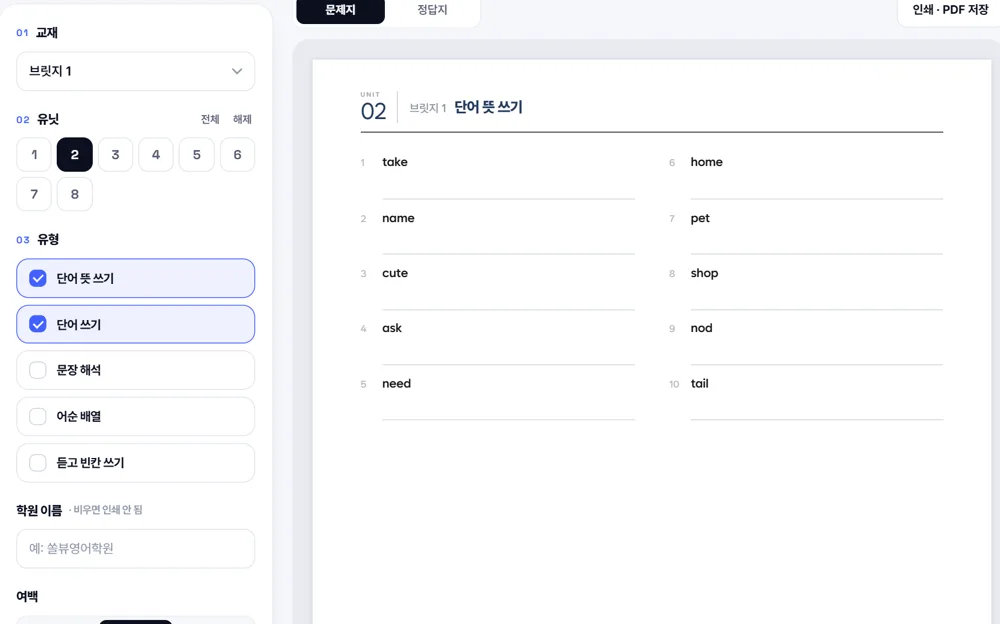
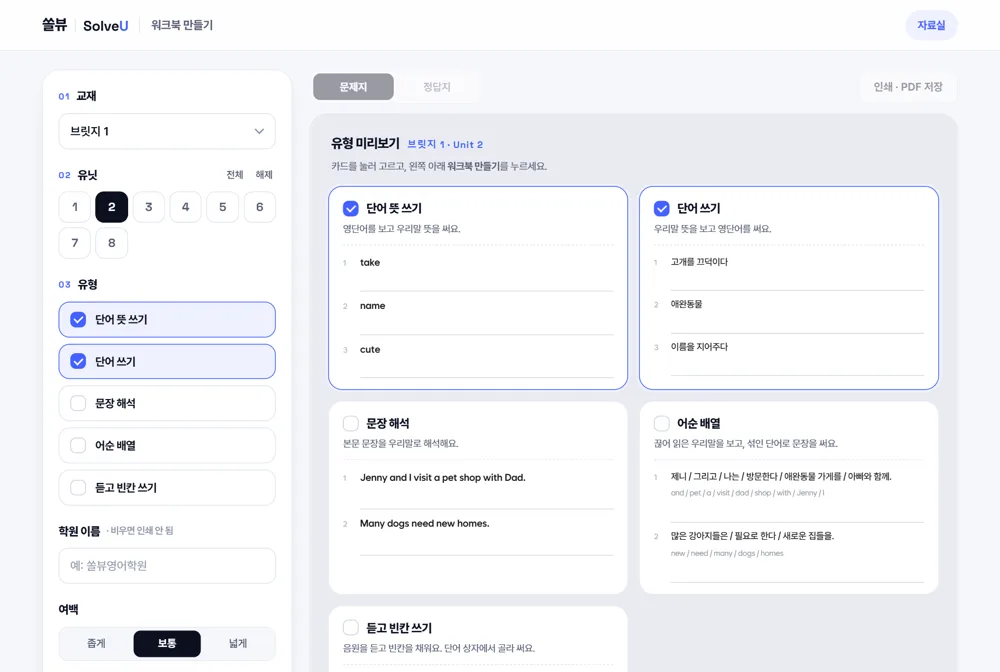
학원 도입: '저자 직강 영상' 칸, 수업 도구 = 새 워크북 만들기 화면 + 저자 강의 영상(정답 PDF 제외) / 워크북 만들기 첫모의고사 포함, 유형 5가지 문구

diff --git a/library/index.html b/library/index.html
@@ -192,7 +192,7 @@
       <p class="lead t-post">필요한 도구를 바로 여세요. 교재별 자료는 아래 카드에서 받을 수 있어요.</p>
       <div class="tg4">
         <div class="tf"><div class="art"><div class="sheet b2"><i class="h"></i><i></i><i class="s"></i><i></i></div><div class="sheet b3"><i class="h"></i><i></i><i class="s"></i><i></i></div><div class="sheet"><i class="h"></i><i></i><i class="s"></i><i></i><i></i><i class="s"></i></div><span class="chk"><svg viewBox="0 0 24 24" aria-hidden="true"><path fill="none" stroke="currentColor" stroke-width="3" stroke-linecap="round" stroke-linejoin="round" d="M5 12l5 5 9-10"/></svg></span></div>
-          <b>1분 만에 워크북</b><span>유닛만 고르면 단어·문장·어순 워크북과 정답지가 바로 나와요</span><a class="go tbtn" data-href="/교사포털/시험지생성기/">열기 →</a></div>
+          <b>1분 만에 워크북</b><span>유닛만 고르면 단어·문장·어순·듣고 빈칸 쓰기 워크북이 정답지와 함께 나와요</span><a class="go tbtn" data-href="/교사포털/시험지생성기/">열기 →</a></div>
         <div class="tf"><div class="art"><div class="sheet l"><i class="h"></i><i></i><i></i><i class="s"></i></div><div class="sheet r"><i class="h"></i><i class="s"></i><i></i><i></i></div><span class="tag" style="left:12px;bottom:10px">단어 리스트</span><span class="tag" style="right:12px;top:10px">워크북</span></div>
           <b>인쇄만 하면 되는 수업 자료</b><span>수업에 바로 쓰는 여러 유형의 워크북 완성본</span><a class="go" href="#books">교재별로 받기 ↓</a></div>
         <div class="tf"><div class="art"><div class="scr"><i class="h"></i><i></i><i style="width:70%"></i><i></i><span class="hl"></span><span class="cir"></span></div><span class="stand"></span></div>
@@ -220,7 +220,7 @@
       <div class="tch"><span class="lab"><i class="lk"><svg viewBox="0 0 24 24" aria-hidden="true"><rect x="5" y="11" width="14" height="10" rx="2.5" fill="currentColor"/><path d="M8 11V8a4 4 0 0 1 8 0v3" fill="none" stroke="currentColor" stroke-width="2.2"/></svg></i>선생님</span><a class="tbtn" data-href="https://southern-winter-c87.notion.site/15a3cdde2d7e80ddb3e0efd45c6f9fac" target="_blank" rel="noopener">바로 쓰는 자료</a><a class="tbtn" data-href="/교사포털/시험지생성기/?book=rbr1">워크북 만들기</a><a class="tbtn" data-href="/교사포털/이북/rbr1/">E-Book 1권</a><a class="tbtn" data-href="/교사포털/이북/rbr2/">E-Book 2권</a></div></div><div class="ag rev"><div class="hd"><div class="cv"><img src="/assets/covers/rin1.webp" alt="저절로 입문 1 표지" loading="lazy"><img src="/assets/covers/rin2.webp" alt="저절로 입문 2 표지" loading="lazy"></div><div class="tx"><h3>입문 <span class="chip gray">초4~5</span></h3><div class="vl"><b>1권</b><a class="pill a" href="/books/answers/rin1.pdf" target="_blank" rel="noopener" aria-label="저절로 입문 1 정답 PDF"><svg viewBox="0 0 24 24" aria-hidden="true"><path fill="none" stroke="currentColor" stroke-width="2.4" stroke-linecap="round" stroke-linejoin="round" d="M12 4v11m0 0-4.5-4.5M12 15l4.5-4.5M5 20h14"/></svg>정답 PDF</a><a class="pill b" href="/studio/?book=rin1" aria-label="저절로 입문 1 음원"><svg viewBox="0 0 24 24" aria-hidden="true"><path fill="none" stroke="currentColor" stroke-width="2.2" stroke-linecap="round" d="M4 15v-3a8 8 0 0 1 16 0v3"/><rect x="3" y="14" width="5" height="7" rx="2" fill="currentColor"/><rect x="16" y="14" width="5" height="7" rx="2" fill="currentColor"/></svg>음원</a></div><div class="vl"><b>2권</b><a class="pill a" href="/books/answers/rin2.pdf" target="_blank" rel="noopener" aria-label="저절로 입문 2 정답 PDF"><svg viewBox="0 0 24 24" aria-hidden="true"><path fill="none" stroke="currentColor" stroke-width="2.4" stroke-linecap="round" stroke-linejoin="round" d="M12 4v11m0 0-4.5-4.5M12 15l4.5-4.5M5 20h14"/></svg>정답 PDF</a><a class="pill b" href="/studio/?book=rin2" aria-label="저절로 입문 2 음원"><svg viewBox="0 0 24 24" aria-hidden="true"><path fill="none" stroke="currentColor" stroke-width="2.2" stroke-linecap="round" d="M4 15v-3a8 8 0 0 1 16 0v3"/><rect x="3" y="14" width="5" height="7" rx="2" fill="currentColor"/><rect x="16" y="14" width="5" height="7" rx="2" fill="currentColor"/></svg>음원</a></div></div></div>
       <div class="tch"><span class="lab"><i class="lk"><svg viewBox="0 0 24 24" aria-hidden="true"><rect x="5" y="11" width="14" height="10" rx="2.5" fill="currentColor"/><path d="M8 11V8a4 4 0 0 1 8 0v3" fill="none" stroke="currentColor" stroke-width="2.2"/></svg></i>선생님</span><a class="tbtn" data-href="https://southern-winter-c87.notion.site/15a3cdde2d7e80ddb3e0efd45c6f9fac" target="_blank" rel="noopener">바로 쓰는 자료</a><a class="tbtn" data-href="/교사포털/시험지생성기/?book=rin1">워크북 만들기</a><a class="tbtn" data-href="/교사포털/이북/rin1/">E-Book 1권</a><a class="tbtn" data-href="/교사포털/이북/rin2/">E-Book 2권</a></div></div><div class="ag rev"><div class="hd"><div class="cv"><img src="/assets/covers/rba1.webp" alt="저절로 기본 1 표지" loading="lazy"><img src="/assets/covers/rba2.webp" alt="저절로 기본 2 표지" loading="lazy"></div><div class="tx"><h3>기본 <span class="chip gray">초6~중1</span></h3><div class="vl"><b>1권</b><a class="pill a" href="/books/answers/rba1.pdf" target="_blank" rel="noopener" aria-label="저절로 기본 1 정답 PDF"><svg viewBox="0 0 24 24" aria-hidden="true"><path fill="none" stroke="currentColor" stroke-width="2.4" stroke-linecap="round" stroke-linejoin="round" d="M12 4v11m0 0-4.5-4.5M12 15l4.5-4.5M5 20h14"/></svg>정답 PDF</a><a class="pill b" href="/studio/?book=rba1" aria-label="저절로 기본 1 음원·강의"><svg viewBox="0 0 24 24" aria-hidden="true"><path fill="none" stroke="currentColor" stroke-width="2.2" stroke-linecap="round" d="M4 15v-3a8 8 0 0 1 16 0v3"/><rect x="3" y="14" width="5" height="7" rx="2" fill="currentColor"/><rect x="16" y="14" width="5" height="7" rx="2" fill="currentColor"/></svg>음원·강의</a></div><div class="vl"><b>2권</b><a class="pill a" href="/books/answers/rba2.pdf" target="_blank" rel="noopener" aria-label="저절로 기본 2 정답 PDF"><svg viewBox="0 0 24 24" aria-hidden="true"><path fill="none" stroke="currentColor" stroke-width="2.4" stroke-linecap="round" stroke-linejoin="round" d="M12 4v11m0 0-4.5-4.5M12 15l4.5-4.5M5 20h14"/></svg>정답 PDF</a><a class="pill b" href="/studio/?book=rba2" aria-label="저절로 기본 2 음원·강의"><svg viewBox="0 0 24 24" aria-hidden="true"><path fill="none" stroke="currentColor" stroke-width="2.2" stroke-linecap="round" d="M4 15v-3a8 8 0 0 1 16 0v3"/><rect x="3" y="14" width="5" height="7" rx="2" fill="currentColor"/><rect x="16" y="14" width="5" height="7" rx="2" fill="currentColor"/></svg>음원·강의</a></div></div></div>
       <div class="tch"><span class="lab"><i class="lk"><svg viewBox="0 0 24 24" aria-hidden="true"><rect x="5" y="11" width="14" height="10" rx="2.5" fill="currentColor"/><path d="M8 11V8a4 4 0 0 1 8 0v3" fill="none" stroke="currentColor" stroke-width="2.2"/></svg></i>선생님</span><a class="tbtn" data-href="https://southern-winter-c87.notion.site/15a3cdde2d7e80ddb3e0efd45c6f9fac" target="_blank" rel="noopener">바로 쓰는 자료</a><a class="tbtn" data-href="/교사포털/시험지생성기/?book=rba1">워크북 만들기</a><a class="tbtn" data-href="/교사포털/이북/rba1/">E-Book 1권</a><a class="tbtn" data-href="/교사포털/이북/rba2/">E-Book 2권</a></div></div><div class="ag rev"><div class="hd"><div class="cv"><img src="/assets/covers/rmo1.webp" alt="저절로 첫모의고사 1 표지" loading="lazy"><img src="/assets/covers/rmo2.webp" alt="저절로 첫모의고사 2 표지" loading="lazy"></div><div class="tx"><h3>첫모의고사 <span class="chip gray">중2~중3</span></h3><div class="vl"><b>1권</b><a class="pill a" href="/books/answers/rmo1.pdf" target="_blank" rel="noopener" aria-label="저절로 첫모의고사 1 정답 PDF"><svg viewBox="0 0 24 24" aria-hidden="true"><path fill="none" stroke="currentColor" stroke-width="2.4" stroke-linecap="round" stroke-linejoin="round" d="M12 4v11m0 0-4.5-4.5M12 15l4.5-4.5M5 20h14"/></svg>정답 PDF</a><a class="pill b" href="/studio/?book=rmo1" aria-label="저절로 첫모의고사 1 음원·강의"><svg viewBox="0 0 24 24" aria-hidden="true"><path fill="none" stroke="currentColor" stroke-width="2.2" stroke-linecap="round" d="M4 15v-3a8 8 0 0 1 16 0v3"/><rect x="3" y="14" width="5" height="7" rx="2" fill="currentColor"/><rect x="16" y="14" width="5" height="7" rx="2" fill="currentColor"/></svg>음원·강의</a></div><div class="vl"><b>2권</b><a class="pill a" href="/books/answers/rmo2.pdf" target="_blank" rel="noopener" aria-label="저절로 첫모의고사 2 정답 PDF"><svg viewBox="0 0 24 24" aria-hidden="true"><path fill="none" stroke="currentColor" stroke-width="2.4" stroke-linecap="round" stroke-linejoin="round" d="M12 4v11m0 0-4.5-4.5M12 15l4.5-4.5M5 20h14"/></svg>정답 PDF</a><a class="pill b" href="/studio/?book=rmo2" aria-label="저절로 첫모의고사 2 음원·강의"><svg viewBox="0 0 24 24" aria-hidden="true"><path fill="none" stroke="currentColor" stroke-width="2.2" stroke-linecap="round" d="M4 15v-3a8 8 0 0 1 16 0v3"/><rect x="3" y="14" width="5" height="7" rx="2" fill="currentColor"/><rect x="16" y="14" width="5" height="7" rx="2" fill="currentColor"/></svg>음원·강의</a></div></div></div>
-      <div class="tch"><span class="lab"><i class="lk"><svg viewBox="0 0 24 24" aria-hidden="true"><rect x="5" y="11" width="14" height="10" rx="2.5" fill="currentColor"/><path d="M8 11V8a4 4 0 0 1 8 0v3" fill="none" stroke="currentColor" stroke-width="2.2"/></svg></i>선생님</span><a class="tbtn" data-href="https://southern-winter-c87.notion.site/15a3cdde2d7e80ddb3e0efd45c6f9fac" target="_blank" rel="noopener">바로 쓰는 자료</a><a class="tbtn" data-href="/교사포털/이북/rmo1/">E-Book 1권</a><a class="tbtn" data-href="/교사포털/이북/rmo2/">E-Book 2권</a></div></div><div class="ag rev"><div class="hd"><div class="cv land"><img src="/assets/covers/gw1.webp" alt="저절로 그래머&amp;라이팅 1 표지" loading="lazy"><img src="/assets/covers/gw2.webp" alt="저절로 그래머&amp;라이팅 2 표지" loading="lazy"></div><div class="tx"><h3>그래머&amp;라이팅 <span class="chip gray">초3~4</span></h3><div class="vl"><b>1권</b><a class="pill a" href="/books/answers/gw1.pdf" target="_blank" rel="noopener" aria-label="저절로 그래머&amp;라이팅 1 정답 PDF"><svg viewBox="0 0 24 24" aria-hidden="true"><path fill="none" stroke="currentColor" stroke-width="2.4" stroke-linecap="round" stroke-linejoin="round" d="M12 4v11m0 0-4.5-4.5M12 15l4.5-4.5M5 20h14"/></svg>정답 PDF</a><a class="pill b" href="/studio/?book=gw1" aria-label="저절로 그래머&amp;라이팅 1 음원·강의"><svg viewBox="0 0 24 24" aria-hidden="true"><path fill="none" stroke="currentColor" stroke-width="2.2" stroke-linecap="round" d="M4 15v-3a8 8 0 0 1 16 0v3"/><rect x="3" y="14" width="5" height="7" rx="2" fill="currentColor"/><rect x="16" y="14" width="5" height="7" rx="2" fill="currentColor"/></svg>음원·강의</a></div><div class="vl"><b>2권</b><a class="pill a" href="/books/answers/gw2.pdf" target="_blank" rel="noopener" aria-label="저절로 그래머&amp;라이팅 2 정답 PDF"><svg viewBox="0 0 24 24" aria-hidden="true"><path fill="none" stroke="currentColor" stroke-width="2.4" stroke-linecap="round" stroke-linejoin="round" d="M12 4v11m0 0-4.5-4.5M12 15l4.5-4.5M5 20h14"/></svg>정답 PDF</a><a class="pill b" href="/studio/?book=gw2" aria-label="저절로 그래머&amp;라이팅 2 음원·강의"><svg viewBox="0 0 24 24" aria-hidden="true"><path fill="none" stroke="currentColor" stroke-width="2.2" stroke-linecap="round" d="M4 15v-3a8 8 0 0 1 16 0v3"/><rect x="3" y="14" width="5" height="7" rx="2" fill="currentColor"/><rect x="16" y="14" width="5" height="7" rx="2" fill="currentColor"/></svg>음원·강의</a></div></div></div>
+      <div class="tch"><span class="lab"><i class="lk"><svg viewBox="0 0 24 24" aria-hidden="true"><rect x="5" y="11" width="14" height="10" rx="2.5" fill="currentColor"/><path d="M8 11V8a4 4 0 0 1 8 0v3" fill="none" stroke="currentColor" stroke-width="2.2"/></svg></i>선생님</span><a class="tbtn" data-href="https://southern-winter-c87.notion.site/15a3cdde2d7e80ddb3e0efd45c6f9fac" target="_blank" rel="noopener">바로 쓰는 자료</a><a class="tbtn" data-href="/교사포털/시험지생성기/?book=rmo1">워크북 만들기</a><a class="tbtn" data-href="/교사포털/이북/rmo1/">E-Book 1권</a><a class="tbtn" data-href="/교사포털/이북/rmo2/">E-Book 2권</a></div></div><div class="ag rev"><div class="hd"><div class="cv land"><img src="/assets/covers/gw1.webp" alt="저절로 그래머&amp;라이팅 1 표지" loading="lazy"><img src="/assets/covers/gw2.webp" alt="저절로 그래머&amp;라이팅 2 표지" loading="lazy"></div><div class="tx"><h3>그래머&amp;라이팅 <span class="chip gray">초3~4</span></h3><div class="vl"><b>1권</b><a class="pill a" href="/books/answers/gw1.pdf" target="_blank" rel="noopener" aria-label="저절로 그래머&amp;라이팅 1 정답 PDF"><svg viewBox="0 0 24 24" aria-hidden="true"><path fill="none" stroke="currentColor" stroke-width="2.4" stroke-linecap="round" stroke-linejoin="round" d="M12 4v11m0 0-4.5-4.5M12 15l4.5-4.5M5 20h14"/></svg>정답 PDF</a><a class="pill b" href="/studio/?book=gw1" aria-label="저절로 그래머&amp;라이팅 1 음원·강의"><svg viewBox="0 0 24 24" aria-hidden="true"><path fill="none" stroke="currentColor" stroke-width="2.2" stroke-linecap="round" d="M4 15v-3a8 8 0 0 1 16 0v3"/><rect x="3" y="14" width="5" height="7" rx="2" fill="currentColor"/><rect x="16" y="14" width="5" height="7" rx="2" fill="currentColor"/></svg>음원·강의</a></div><div class="vl"><b>2권</b><a class="pill a" href="/books/answers/gw2.pdf" target="_blank" rel="noopener" aria-label="저절로 그래머&amp;라이팅 2 정답 PDF"><svg viewBox="0 0 24 24" aria-hidden="true"><path fill="none" stroke="currentColor" stroke-width="2.4" stroke-linecap="round" stroke-linejoin="round" d="M12 4v11m0 0-4.5-4.5M12 15l4.5-4.5M5 20h14"/></svg>정답 PDF</a><a class="pill b" href="/studio/?book=gw2" aria-label="저절로 그래머&amp;라이팅 2 음원·강의"><svg viewBox="0 0 24 24" aria-hidden="true"><path fill="none" stroke="currentColor" stroke-width="2.2" stroke-linecap="round" d="M4 15v-3a8 8 0 0 1 16 0v3"/><rect x="3" y="14" width="5" height="7" rx="2" fill="currentColor"/><rect x="16" y="14" width="5" height="7" rx="2" fill="currentColor"/></svg>음원·강의</a></div></div></div>
       <div class="tch"><span class="lab"><i class="lk"><svg viewBox="0 0 24 24" aria-hidden="true"><rect x="5" y="11" width="14" height="10" rx="2.5" fill="currentColor"/><path d="M8 11V8a4 4 0 0 1 8 0v3" fill="none" stroke="currentColor" stroke-width="2.2"/></svg></i>선생님</span><a class="tbtn" data-href="https://southern-winter-c87.notion.site/1-3a93cdde2d7e8032826dd3d925ed4278" target="_blank" rel="noopener">바로 쓰는 자료</a><a class="tbtn" data-href="/교사포털/시험지생성기/?book=gw1">워크북 만들기</a><a class="tbtn" data-href="/교사포털/이북/gw1/">E-Book 1권</a><a class="tbtn" data-href="/교사포털/이북/gw2/">E-Book 2권</a></div></div></div>
   </div>
 </div></section>

diff --git a/academy/index.html b/academy/index.html
@@ -99,14 +99,14 @@
 .cmap .bar b{display:block;font-size:14.5px;font-weight:800;letter-spacing:-.03em;white-space:nowrap;overflow:hidden;text-overflow:ellipsis}
 .cmap .bar.gr{background:linear-gradient(90deg,#eefaf3,#f4fbf7);border-color:#d7f0e1}.cmap .bar.gr small{color:#1e8e3e}
 /* 수업 도구 실제 화면 */
-.atools{display:grid;grid-template-columns:1.6fr 1fr 1fr;gap:16px;margin-top:32px;align-items:start}
+.atools{display:grid;grid-template-columns:1fr 1fr;gap:20px;margin-top:32px;align-items:start}
 .atools figure{margin:0}
 .atools .shot{border-radius:18px;overflow:hidden;border:1px solid var(--line);background:#fff;box-shadow:0 20px 40px -28px rgba(12,16,32,.45);aspect-ratio:16/10}
 .atools .shot.tall{aspect-ratio:1/1}
 .atools .shot img{width:100%;height:100%;object-fit:cover;object-position:top}
 .atools figcaption{margin-top:12px}.atools figcaption b{display:block;font-size:16px;font-weight:800}
 .atools figcaption span{display:block;font-size:13.5px;color:var(--sub);margin-top:3px}
-@media(max-width:860px){.atools{grid-template-columns:1fr 1fr}.atools figure:first-child{grid-column:1/-1}}
+@media(max-width:760px){.atools{grid-template-columns:1fr}}
 /* 샘플 바로 보기 */
 .smps{display:grid;grid-template-columns:repeat(7,minmax(0,1fr));gap:10px;margin-top:28px}
 .smp{display:flex;flex-direction:column;align-items:center;gap:6px;padding:16px 10px;border:1px solid var(--line);border-radius:16px;background:#fff;text-align:center;transition:border-color .15s,transform .2s}
@@ -283,7 +283,7 @@
     <h1>교재가 아니라,<br><span class="gt">학원 영어 시스템</span>입니다</h1>
     <div class="abft">
       <div><span class="ic"><svg viewBox="0 0 24 24" aria-hidden="true"><path fill="none" stroke="currentColor" stroke-width="2" stroke-linejoin="round" d="M6 3h8l4 4v14H6zM14 3v4h4M9 13h6M9 17h6"/></svg></span><b>가맹비·로열티 0원</b></div>
-      <div><span class="ic"><svg viewBox="0 0 24 24" aria-hidden="true"><path fill="none" stroke="currentColor" stroke-width="2" stroke-linejoin="round" d="M3 7h7l2 2h9v10H3z"/></svg></span><b>6단계 커리큘럼</b></div>
+      <div><span class="ic"><svg viewBox="0 0 24 24" aria-hidden="true"><rect x="3" y="5" width="18" height="14" rx="3" fill="none" stroke="currentColor" stroke-width="2"/><path fill="currentColor" d="M10 9.2v5.6l5-2.8z"/></svg></span><b>저자 직강 영상</b></div>
       <div><span class="ic"><svg viewBox="0 0 24 24" aria-hidden="true"><path fill="none" stroke="currentColor" stroke-width="2" stroke-linecap="round" d="M5 4h14v16H5zM8 9h8M8 13h8M8 17h5"/></svg></span><b>수업 도구 무료</b></div>
     </div>
     <div class="tcta"><a class="big" href="#apply">무료 견적 받기 →</a><small>30권 이상 · 사업자 학원·공부방 대상</small></div>
@@ -300,9 +300,8 @@
 <section class="sec panel" id="tools"><div class="wrap">
   <div class="sh rev"><h2>교재와 함께 오는 수업 도구</h2><p>모두 무료예요. 선생님은 수업에만 집중하세요.</p></div>
   <div class="atools">
-    <figure class="rev"><div class="shot"><img src="/academy/img/tool_workbook.webp" alt="워크북 만들기 화면" loading="lazy"></div><figcaption><b>워크북 만들기</b><span>유닛만 고르면 문제지와 정답지가 바로 나와요</span></figcaption></figure>
-    <figure class="rev"><div class="shot tall"><img src="/academy/img/tool_studio.webp" alt="QR 음원 화면" loading="lazy"></div><figcaption><b>QR 음원·강의</b><span>학생은 책의 QR만 찍으면 바로 들어요</span></figcaption></figure>
-    <figure class="rev"><div class="shot tall"><img src="/academy/img/tool_answer.webp" alt="정답 PDF" loading="lazy"></div><figcaption><b>정답 PDF</b><span>교재별로 누구나 바로 받아요</span></figcaption></figure>
+    <figure class="rev"><div class="shot"><img src="/academy/img/tool_workbook.webp" alt="워크북 만들기 화면" loading="lazy"></div><figcaption><b>워크북 만들기</b><span>유닛만 고르면 단어 뜻·단어 쓰기·문장 해석·어순 배열·듣고 빈칸 쓰기 워크북이 정답지와 함께 바로 나와요</span></figcaption></figure>
+    <figure class="rev"><div class="shot"><img src="/academy/img/tool_lecture.webp" alt="저자 강의 영상" loading="lazy"></div><figcaption><b>저자 직강 영상</b><span>저자가 직접 강의한 영상을 책의 QR로 바로 봐요. 수업 준비와 학생 복습에 그대로 써요</span></figcaption></figure>
   </div>
 </div></section>
 

diff --git a/studio/index.html b/studio/index.html
@@ -213,7 +213,7 @@ const IC_HP='<svg viewBox="0 0 24 24" aria-hidden="true"><path fill="none" strok
 const IC_PL='<svg viewBox="0 0 24 24" aria-hidden="true"><path fill="currentColor" d="M8 5.5v13l11-6.5z"/></svg>';
 let miniIO=null;
 /* QR 음원 화면 아래 '선생님이세요?' 한 줄 — 책 QR은 어디서 산 책이든 원장님을 만나는 곳(학생 화면은 가리지 않게 본문 맨 아래) */
-const GEN=['rst1','rst2','rbr1','rbr2','rin1','rin2','rba1','rba2','gw1','gw2'];   // 시험지 생성기에 있는 책
+const GEN=['rst1','rst2','rbr1','rbr2','rin1','rin2','rba1','rba2','rmo1','rmo2','gw1','gw2'];   // 시험지 생성기에 있는 책
 const QRC=new URLSearchParams(location.search).get('c')||'';                         // 처음 들어온 QR 코드
 function teacherLine(b,u){
   const dest=GEN.indexOf(b.code)>=0 ? '/교사포털/시험지생성기/?book='+b.code+'&u='+u : '/library/#teacher';
